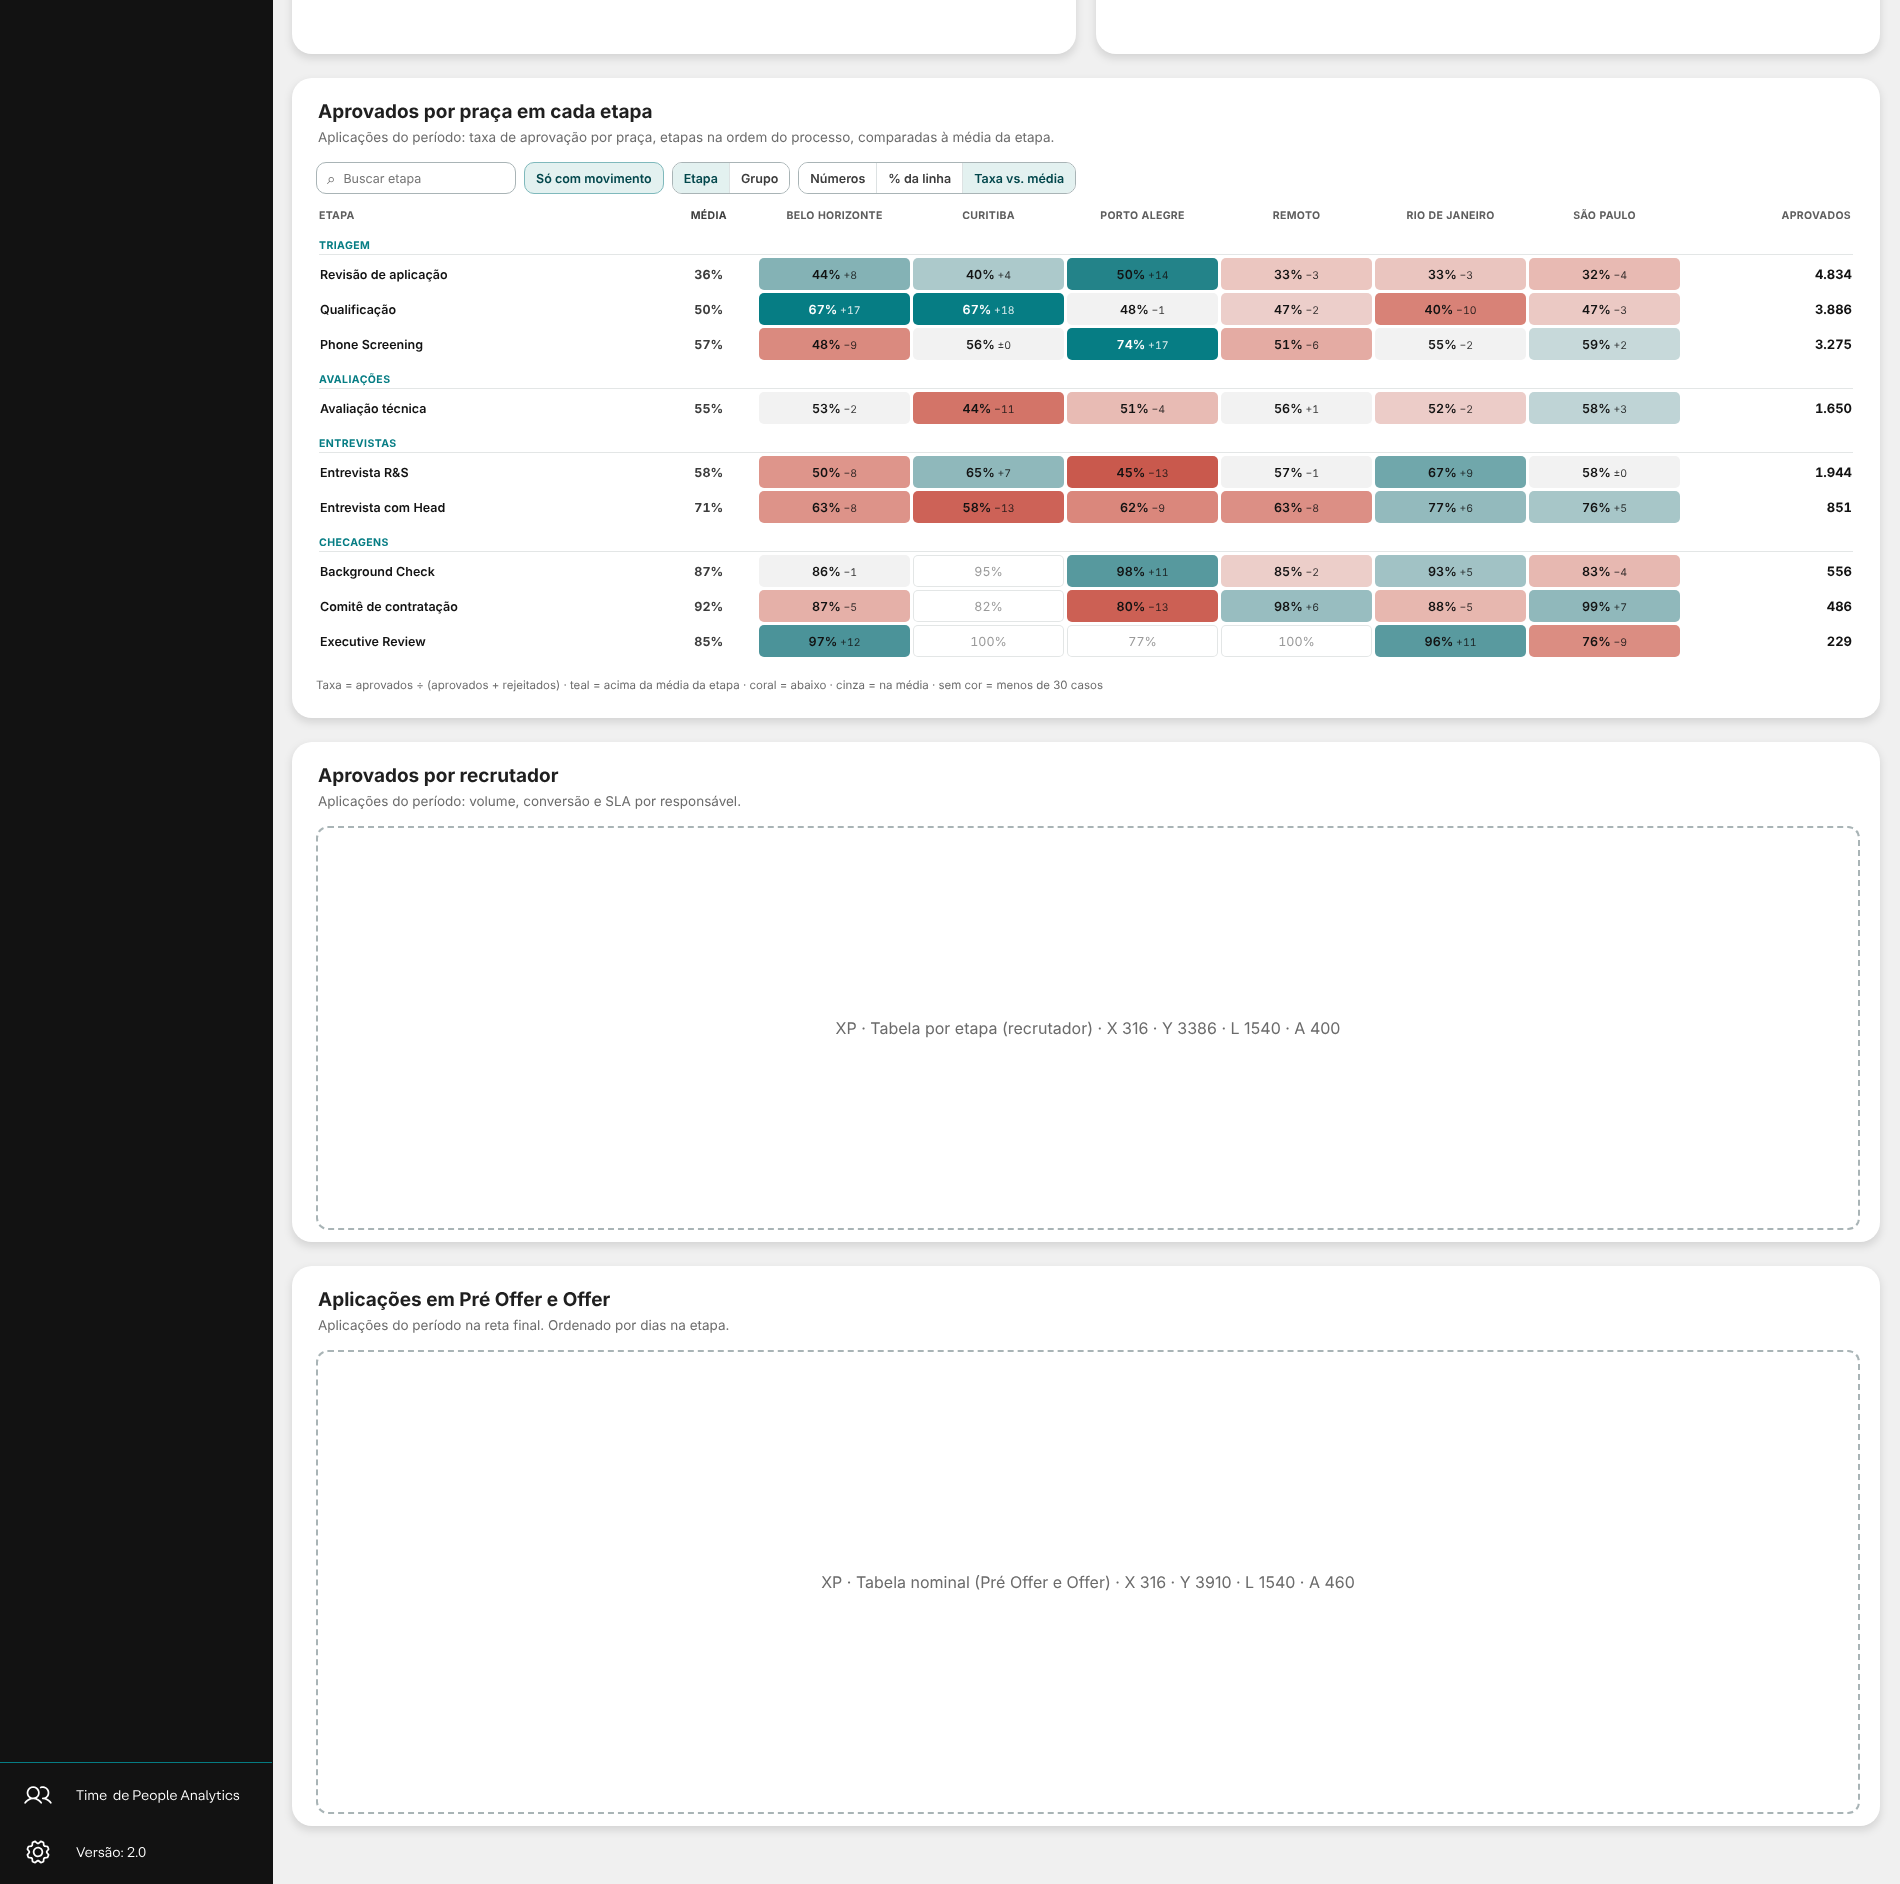
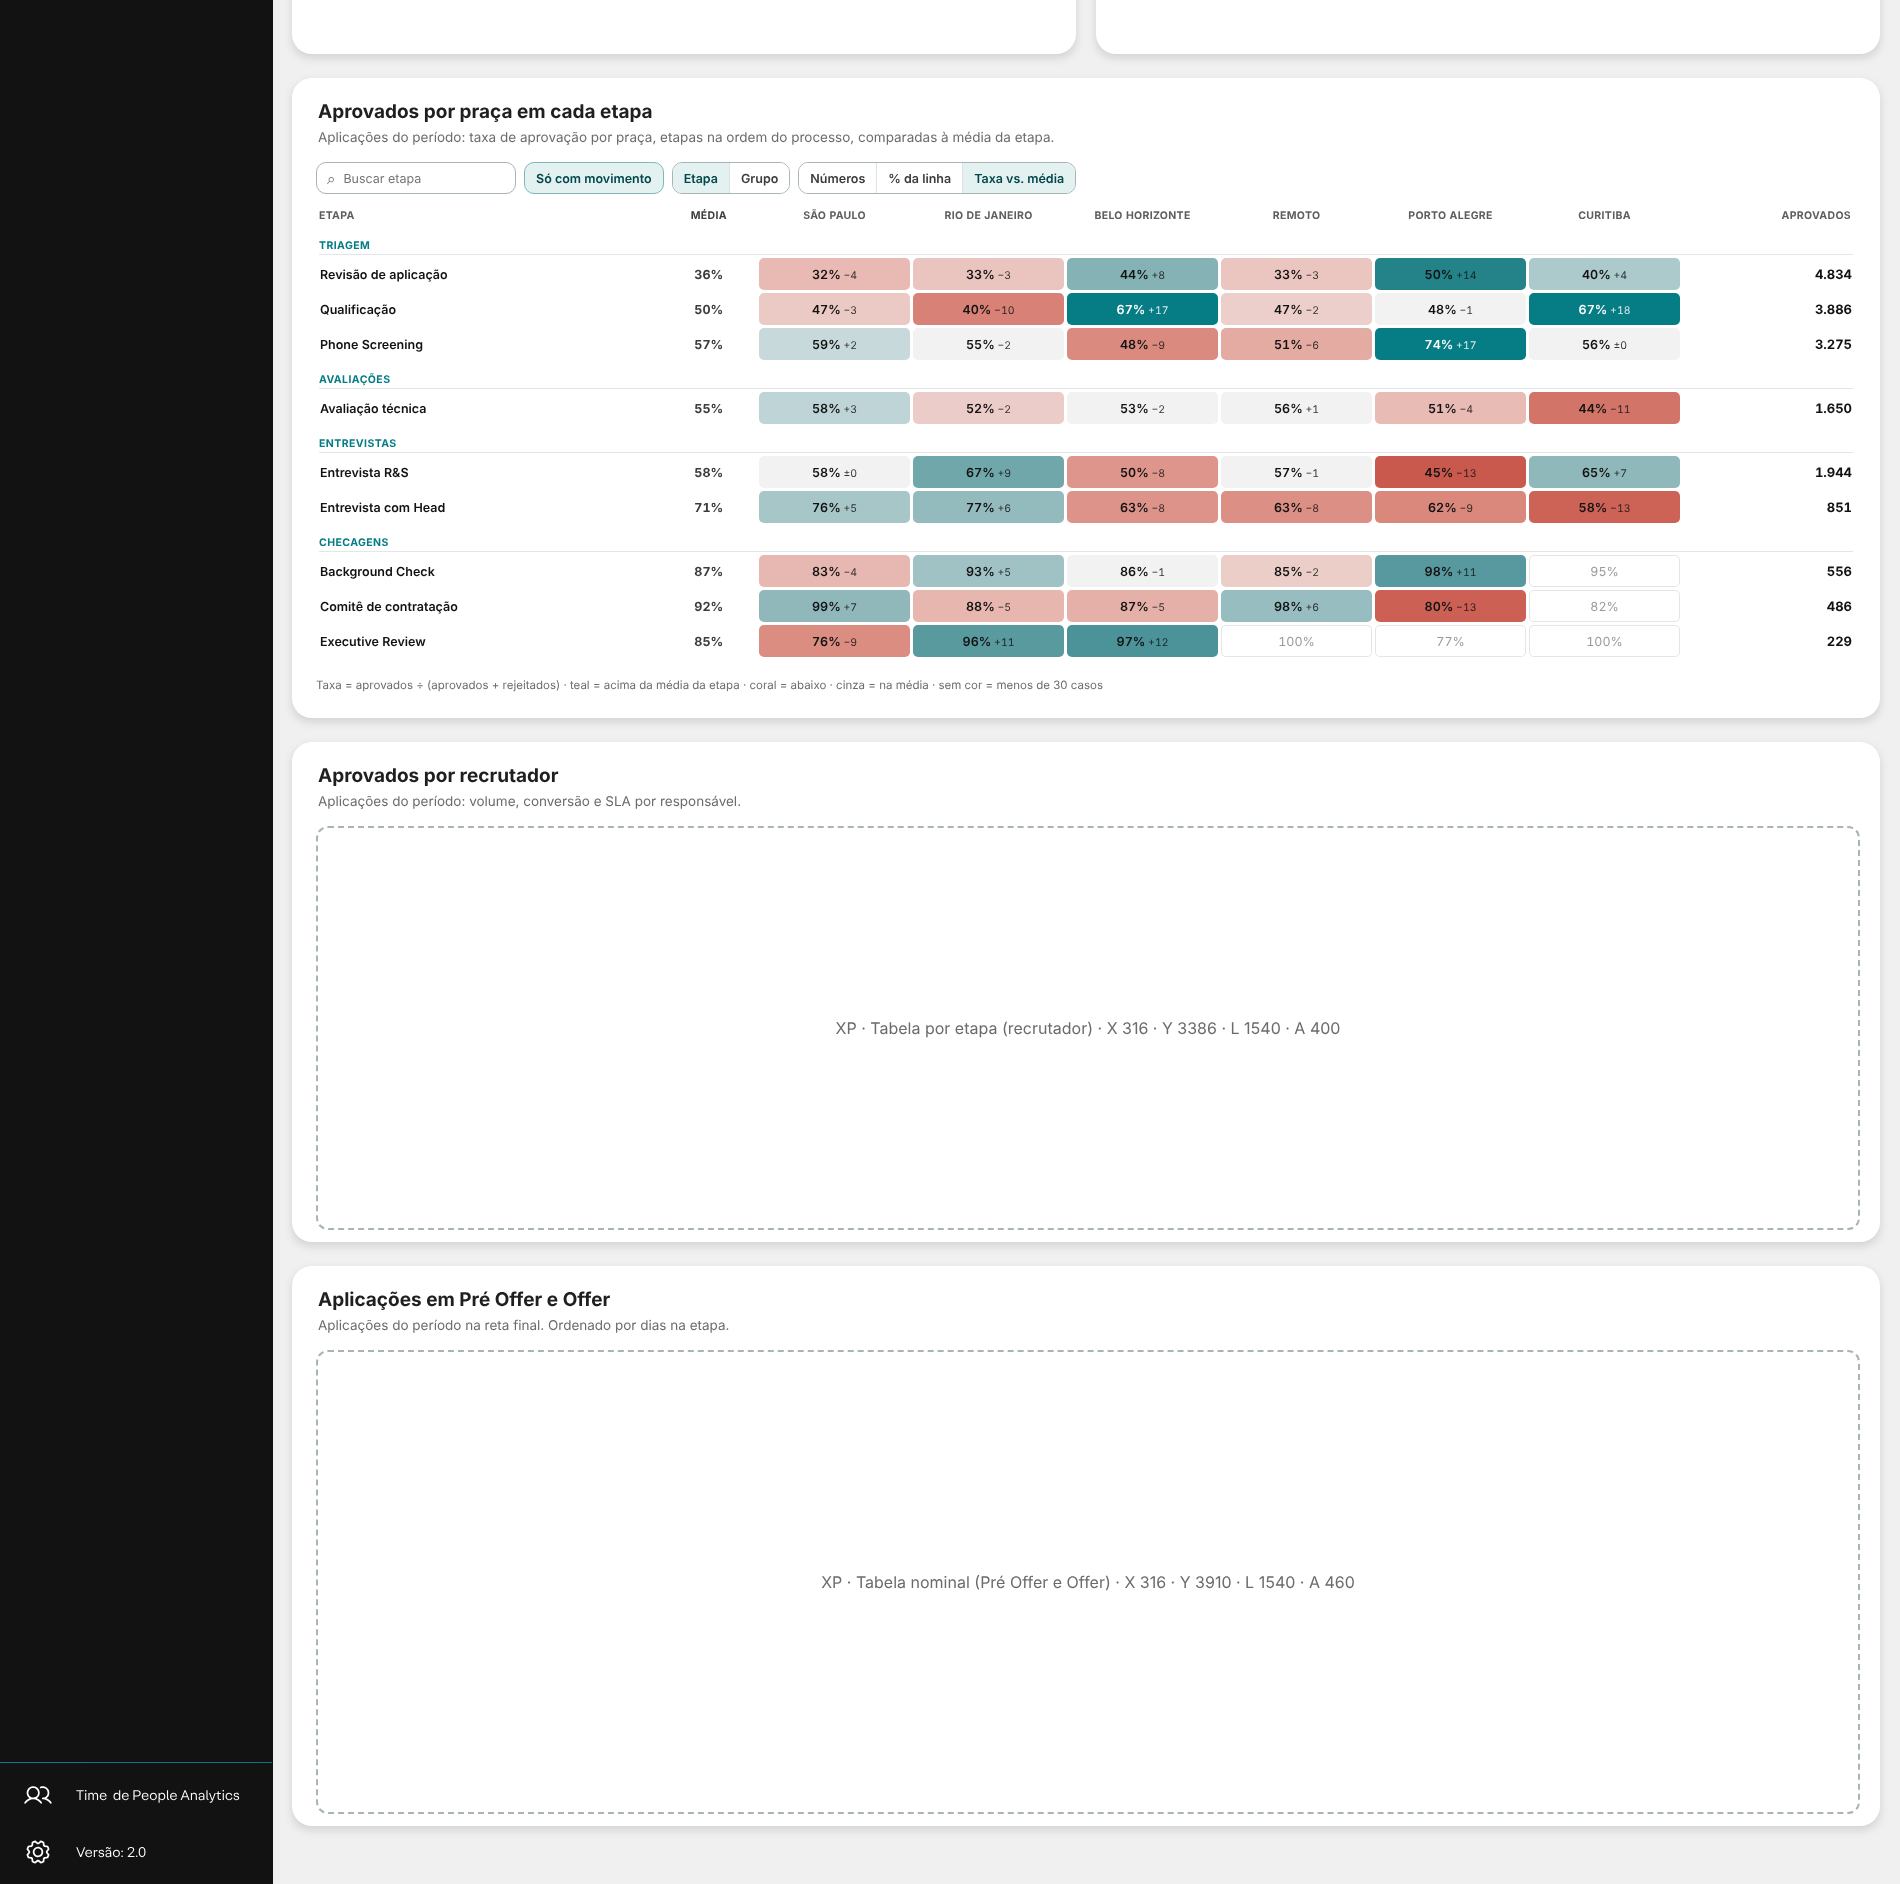
Matriz de calor 1.3.1: opção de ordenar as colunas pelo maior valor (praças com mais aprovados primeiro)
Claude-Session: https://claude.ai/code/session_01K4TQMJzhNnUz8FWZ4bGAJu

Changed region(s): [[0.3726, 0.1231, 0.6521, 0.3694], [0.7142, 0.1231, 0.9005, 0.3694]]

diff --git a/visuals/xpHeatmap/src/visual.ts b/visuals/xpHeatmap/src/visual.ts
@@ -214,11 +214,20 @@ export class Visual implements IVisual {
     private baseRows(): Row[] { return this.byGroup ? this.groupRows() : this.rows; }
 
     // Colunas visíveis: com "Só com movimento", some a coluna sem valor e sem base em nenhuma linha.
+    // Com "Colunas: maior valor primeiro", a coluna com mais valor (ex.: mais aprovados) vem antes; empate mantém a ordem original.
     private visibleCols(rows: Row[]): number[] {
-        const all = this.columns.map((_, i) => i);
-        if (!this.onlyMoving || !this.settings.comportamento.ocultarColunas.value) return all;
-        const keep = all.filter(i => rows.some(r => (r.values[i] || 0) > 0 || (r.bases[i] || 0) > 0));
-        return keep.length ? keep : all;
+        let cols = this.columns.map((_, i) => i);
+        if (this.onlyMoving && this.settings.comportamento.ocultarColunas.value) {
+            const keep = cols.filter(i => rows.some(r => (r.values[i] || 0) > 0 || (r.bases[i] || 0) > 0));
+            if (keep.length) cols = keep;
+        }
+        if (this.settings.comportamento.colunasPorTotal.value) {
+            const sum = (i: number) => rows.reduce((t, r) => t + (r.values[i] || 0), 0);
+            const tot = new Map<number, number>();
+            cols.forEach(i => tot.set(i, sum(i)));
+            cols = cols.slice().sort((a, b) => ((tot.get(b) || 0) - (tot.get(a) || 0)) || (a - b));
+        }
+        return cols;
     }
 
     private alertIndex(): number {

diff --git a/visuals/xpHeatmap/src/settings.ts b/visuals/xpHeatmap/src/settings.ts
@@ -25,9 +25,10 @@ class ComportamentoCard extends Card {
     mostrarTotal = new formattingSettings.ToggleSwitch({ name: "mostrarTotal", displayName: "Mostrar coluna de total", value: true });
     botaoGrupo = new formattingSettings.ToggleSwitch({ name: "botaoGrupo", displayName: "Mostrar botão linha | grupo", value: true });
     ocultarColunas = new formattingSettings.ToggleSwitch({ name: "ocultarColunas", displayName: "\"Só com movimento\" esconde colunas vazias", value: true });
+    colunasPorTotal = new formattingSettings.ToggleSwitch({ name: "colunasPorTotal", displayName: "Colunas: maior valor primeiro", value: false });
     name = "comportamento";
     displayName = "Comportamento";
-    slices = [this.busca, this.soMovimento, this.modoPct, this.mostrarTotal, this.botaoGrupo, this.ocultarColunas];
+    slices = [this.busca, this.soMovimento, this.modoPct, this.mostrarTotal, this.botaoGrupo, this.ocultarColunas, this.colunasPorTotal];
 }
 
 class AlertaCard extends Card {

diff --git a/docs/14-praca.md b/docs/14-praca.md
@@ -49,7 +49,7 @@ CONCATENATEX(
 ---
 
 ## 1.3.0 · Etapas nas linhas, praças nas colunas (27/10)
-Pacote: `dist/XP - Matriz de calor 1.3.0.pbiviz` (importar por cima da 1.2.0; a matriz de tempo parado continua igual).
+Pacote: `dist/XP - Matriz de calor 1.3.1.pbiviz` (importar por cima da 1.2.0 ou 1.3.0; a matriz de tempo parado continua igual).
 Prévia: `docs/14-praca-1.3-preview.png` (números fictícios).
 
 ### Novidades do visual
@@ -87,6 +87,7 @@ EVALUATE ROW( "medidas", 1 )
 | Taxa (com base) | Abrir em / Comparar com a | Taxa vs. média / **Média da linha** |
 | Taxa (com base) | Nota no rodapé | Taxa = aprovados ÷ (aprovados + rejeitados) · teal = acima da média da etapa · coral = abaixo · cinza = na média · sem cor = menos de 30 casos |
 | Coluna de alerta | Destacar a última coluna | desligado |
+| Comportamento | Colunas: maior valor primeiro (1.3.1) | **ligado** (praças com mais aprovados à esquerda; muda com o filtro) |
 
 ### Página Report · layout "mínima mudança"
 Fundo novo `backgrounds/BG - Esteiras_Report.svg` (página **1900 × 4444**: Exibir → Tamanho da página → Personalizado, altura 4444).
